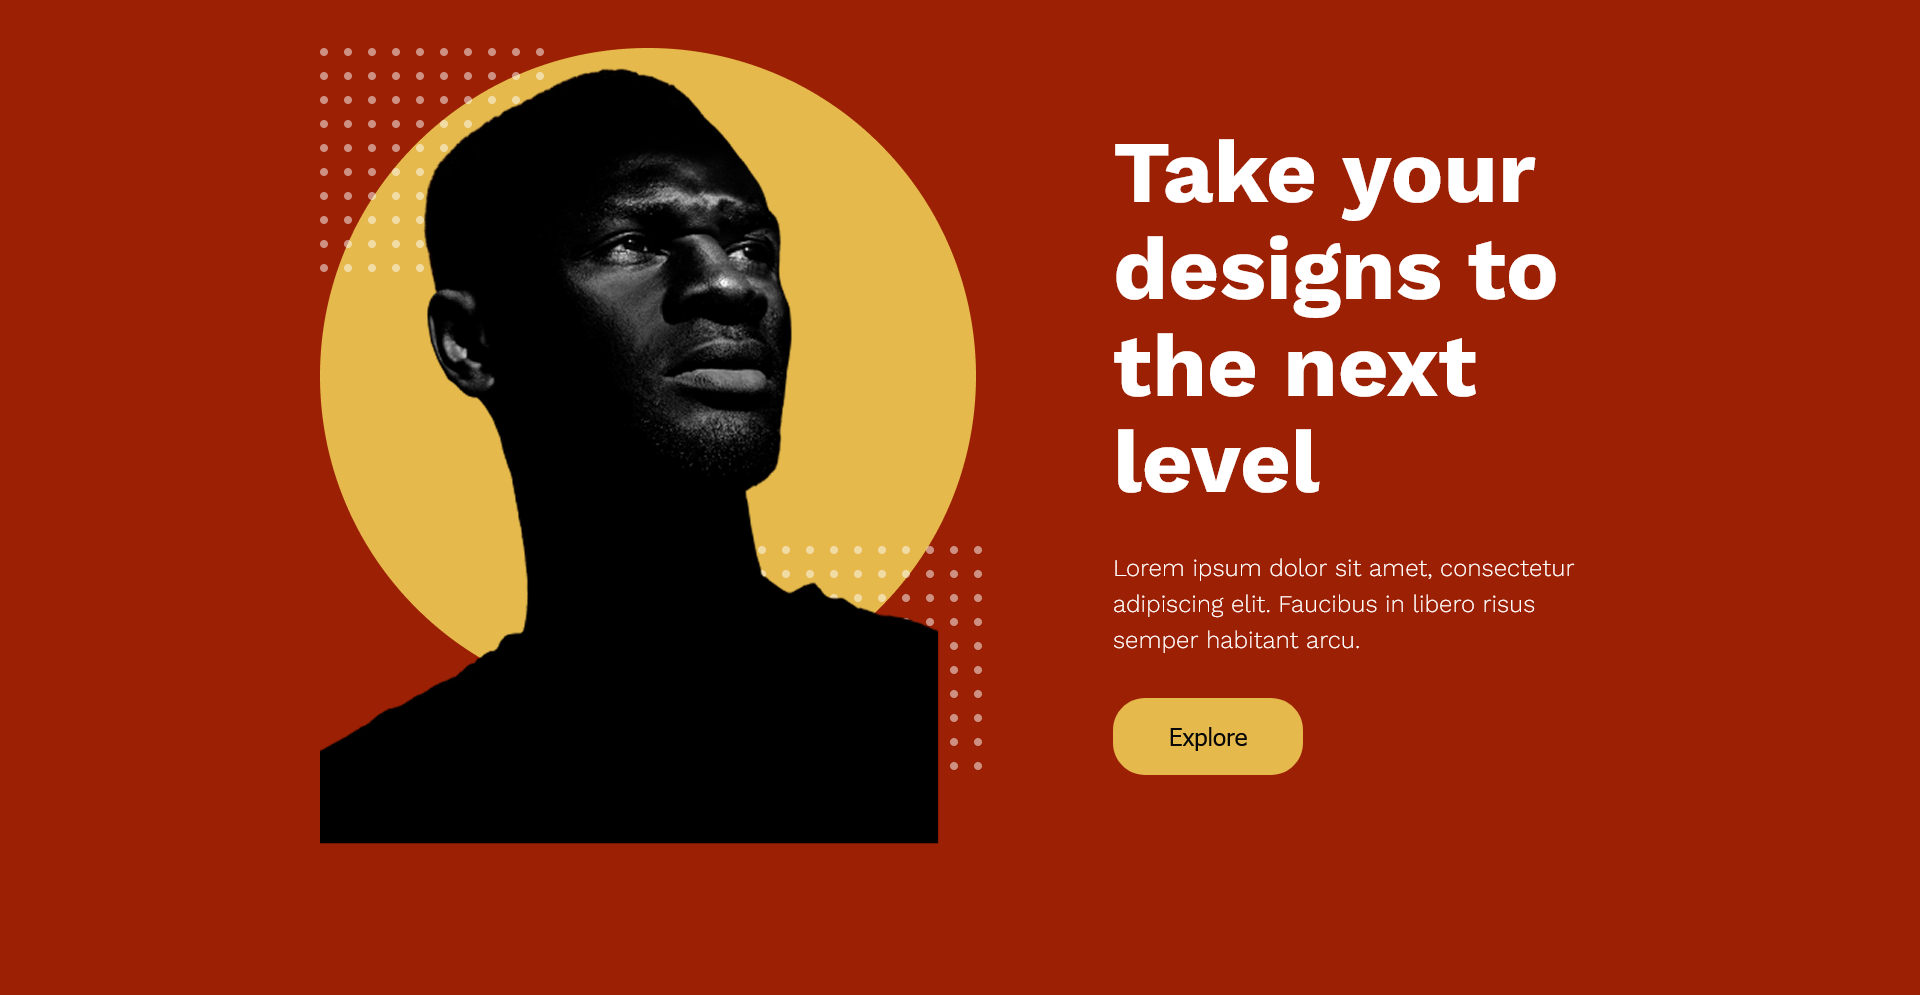
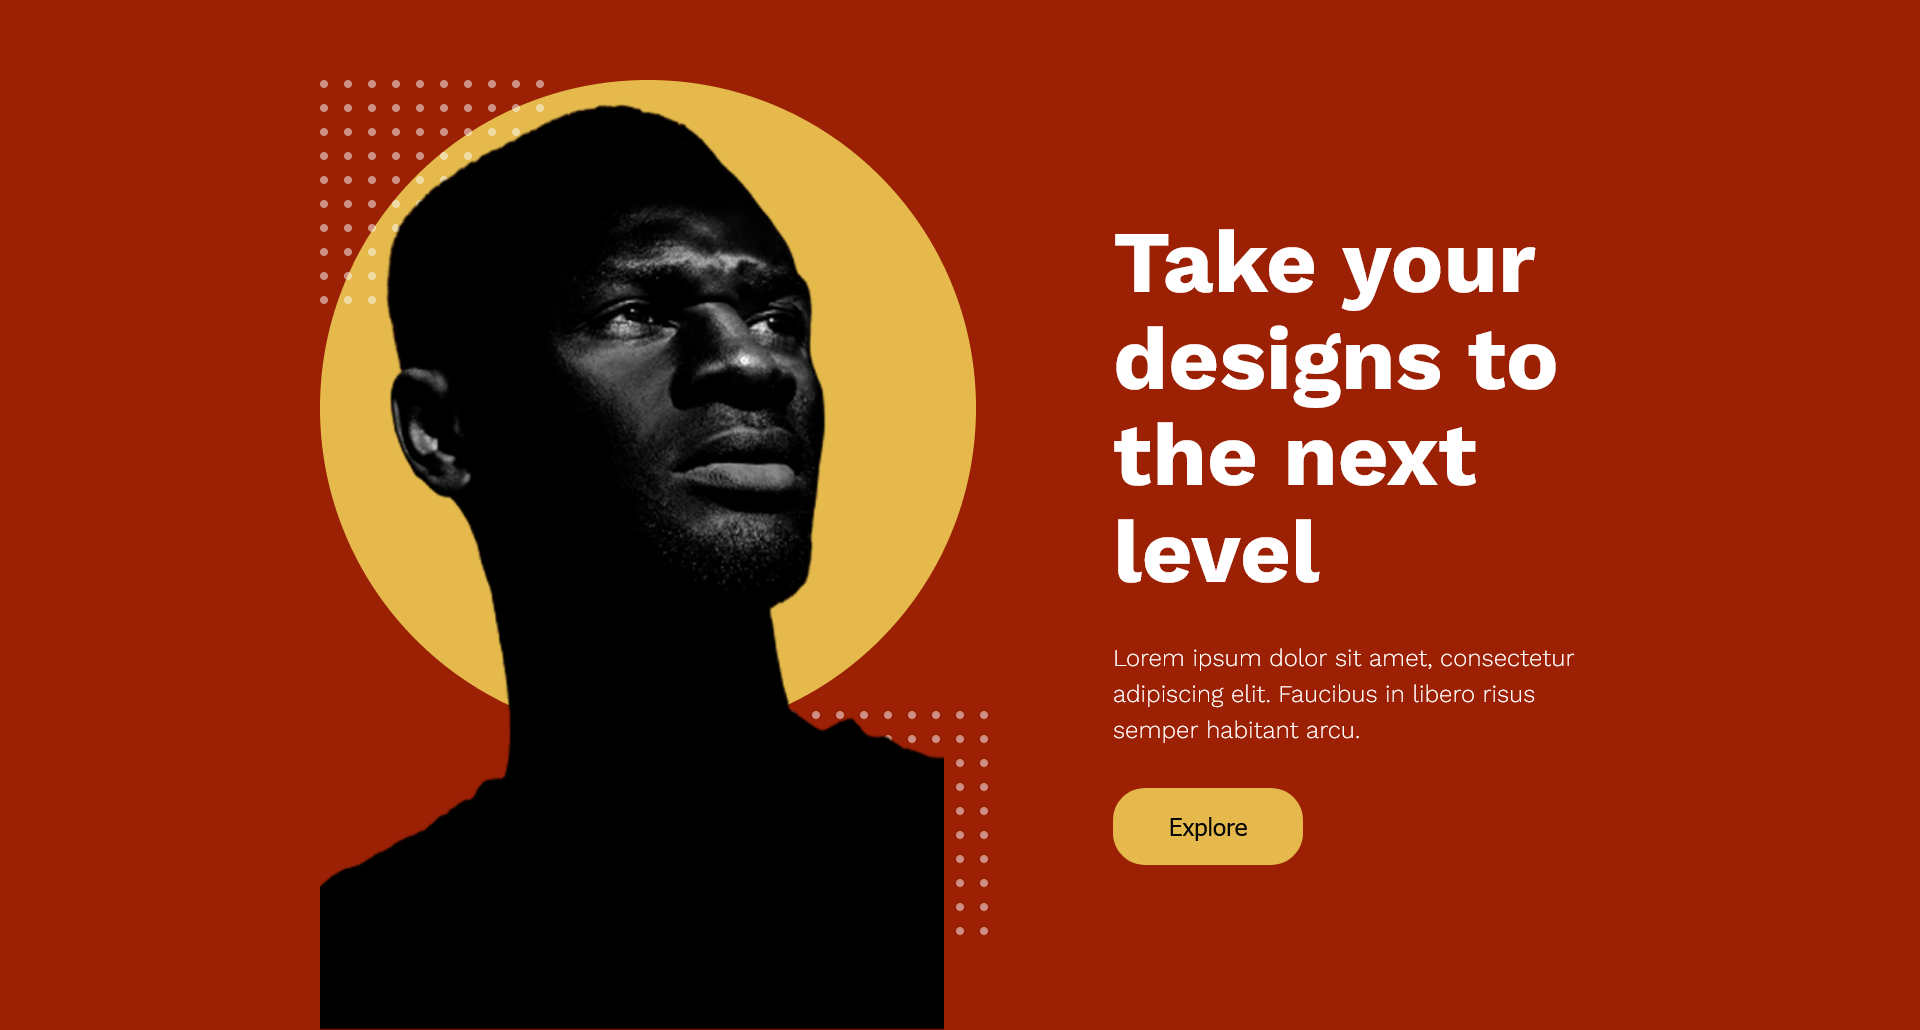
Fixed: UI hero image full height issue

diff --git a/Day8/assets/css/style.css b/Day8/assets/css/style.css
@@ -29,32 +29,57 @@ body {
   font-family: 'Work Sans', sans-serif;
   font-size: 16px;
   line-height: 1.5;
-  height: 100%;
+  min-height: 100vh;
+  overflow: hidden;
+}
+
+@media (max-width: 1080px) {
+  body {
+    overflow: auto;
+  }
 }
 
 main {
   max-width: var(--max-width);
   margin-inline: auto;
-  margin-block: 3rem;
+  margin-block-start: 3rem;
   display: flex;
   align-items: center;
   justify-content: space-between;
+  gap: 169px;
+  position: relative;
 }
 
 @media (max-width: 1080px) {
   main {
     flex-direction: column;
+    gap: 2rem;
   }
 }
 
 .image-container {
   position: relative;
-  max-width: 656px;
+  height: 950px;
+  margin-block-start: 2rem;
+}
+
+@media (max-width: 1080px) {
+  .image-container {
+    height: 500px;
+  }
 }
 
 .image-container .yellow-ellipse {
   position: absolute;
   z-index: -1;
+}
+
+@media (max-width: 1080px) {
+  .image-container .yellow-ellipse {
+    max-width: 400px;
+    max-height: 400px;
+    left: 0;
+  }
 }
 
 .image-container .top-pattern {
@@ -71,9 +96,21 @@ main {
   z-index: 10;
 }
 
+@media (max-width: 1080px) {
+  .image-container .top-pattern,
+  .image-container .bottom-pattern {
+    width: 140px;
+    height: 140px;
+  }
+}
+
 .image-container .hero-image {
   position: relative;
   z-index: 20;
+  display: block;
+  width: 100%;
+  height: 100%;
+  object-fit: cover;
 }
 
 .content {
@@ -93,6 +130,7 @@ main {
 @media (max-width: 768px) {
   .content {
     padding-inline: 1rem;
+    margin-block-end: 3rem;
   }
 }
 

diff --git a/Day8/index.html b/Day8/index.html
@@ -20,8 +20,7 @@
             <img class="yellow-ellipse" src="./assets/images/ellipse.png" alt="Ellipse with yellow background"
                 width="656" height="656">
             <img class="top-pattern" src="./assets/images/pattern.png" alt="pattern with dots" width="224" height="224">
-            <img class="hero-image" src="./assets/images/heroimage.png" alt="Man portrait black and white" width="619"
-                height="796">
+            <img class="hero-image" src="./assets/images/heroimage.png" alt="Man portrait black and white">
             <img class="bottom-pattern" src="./assets/images/pattern.png" alt="pattern with dots" width="224"
                 height="224">
         </div>
